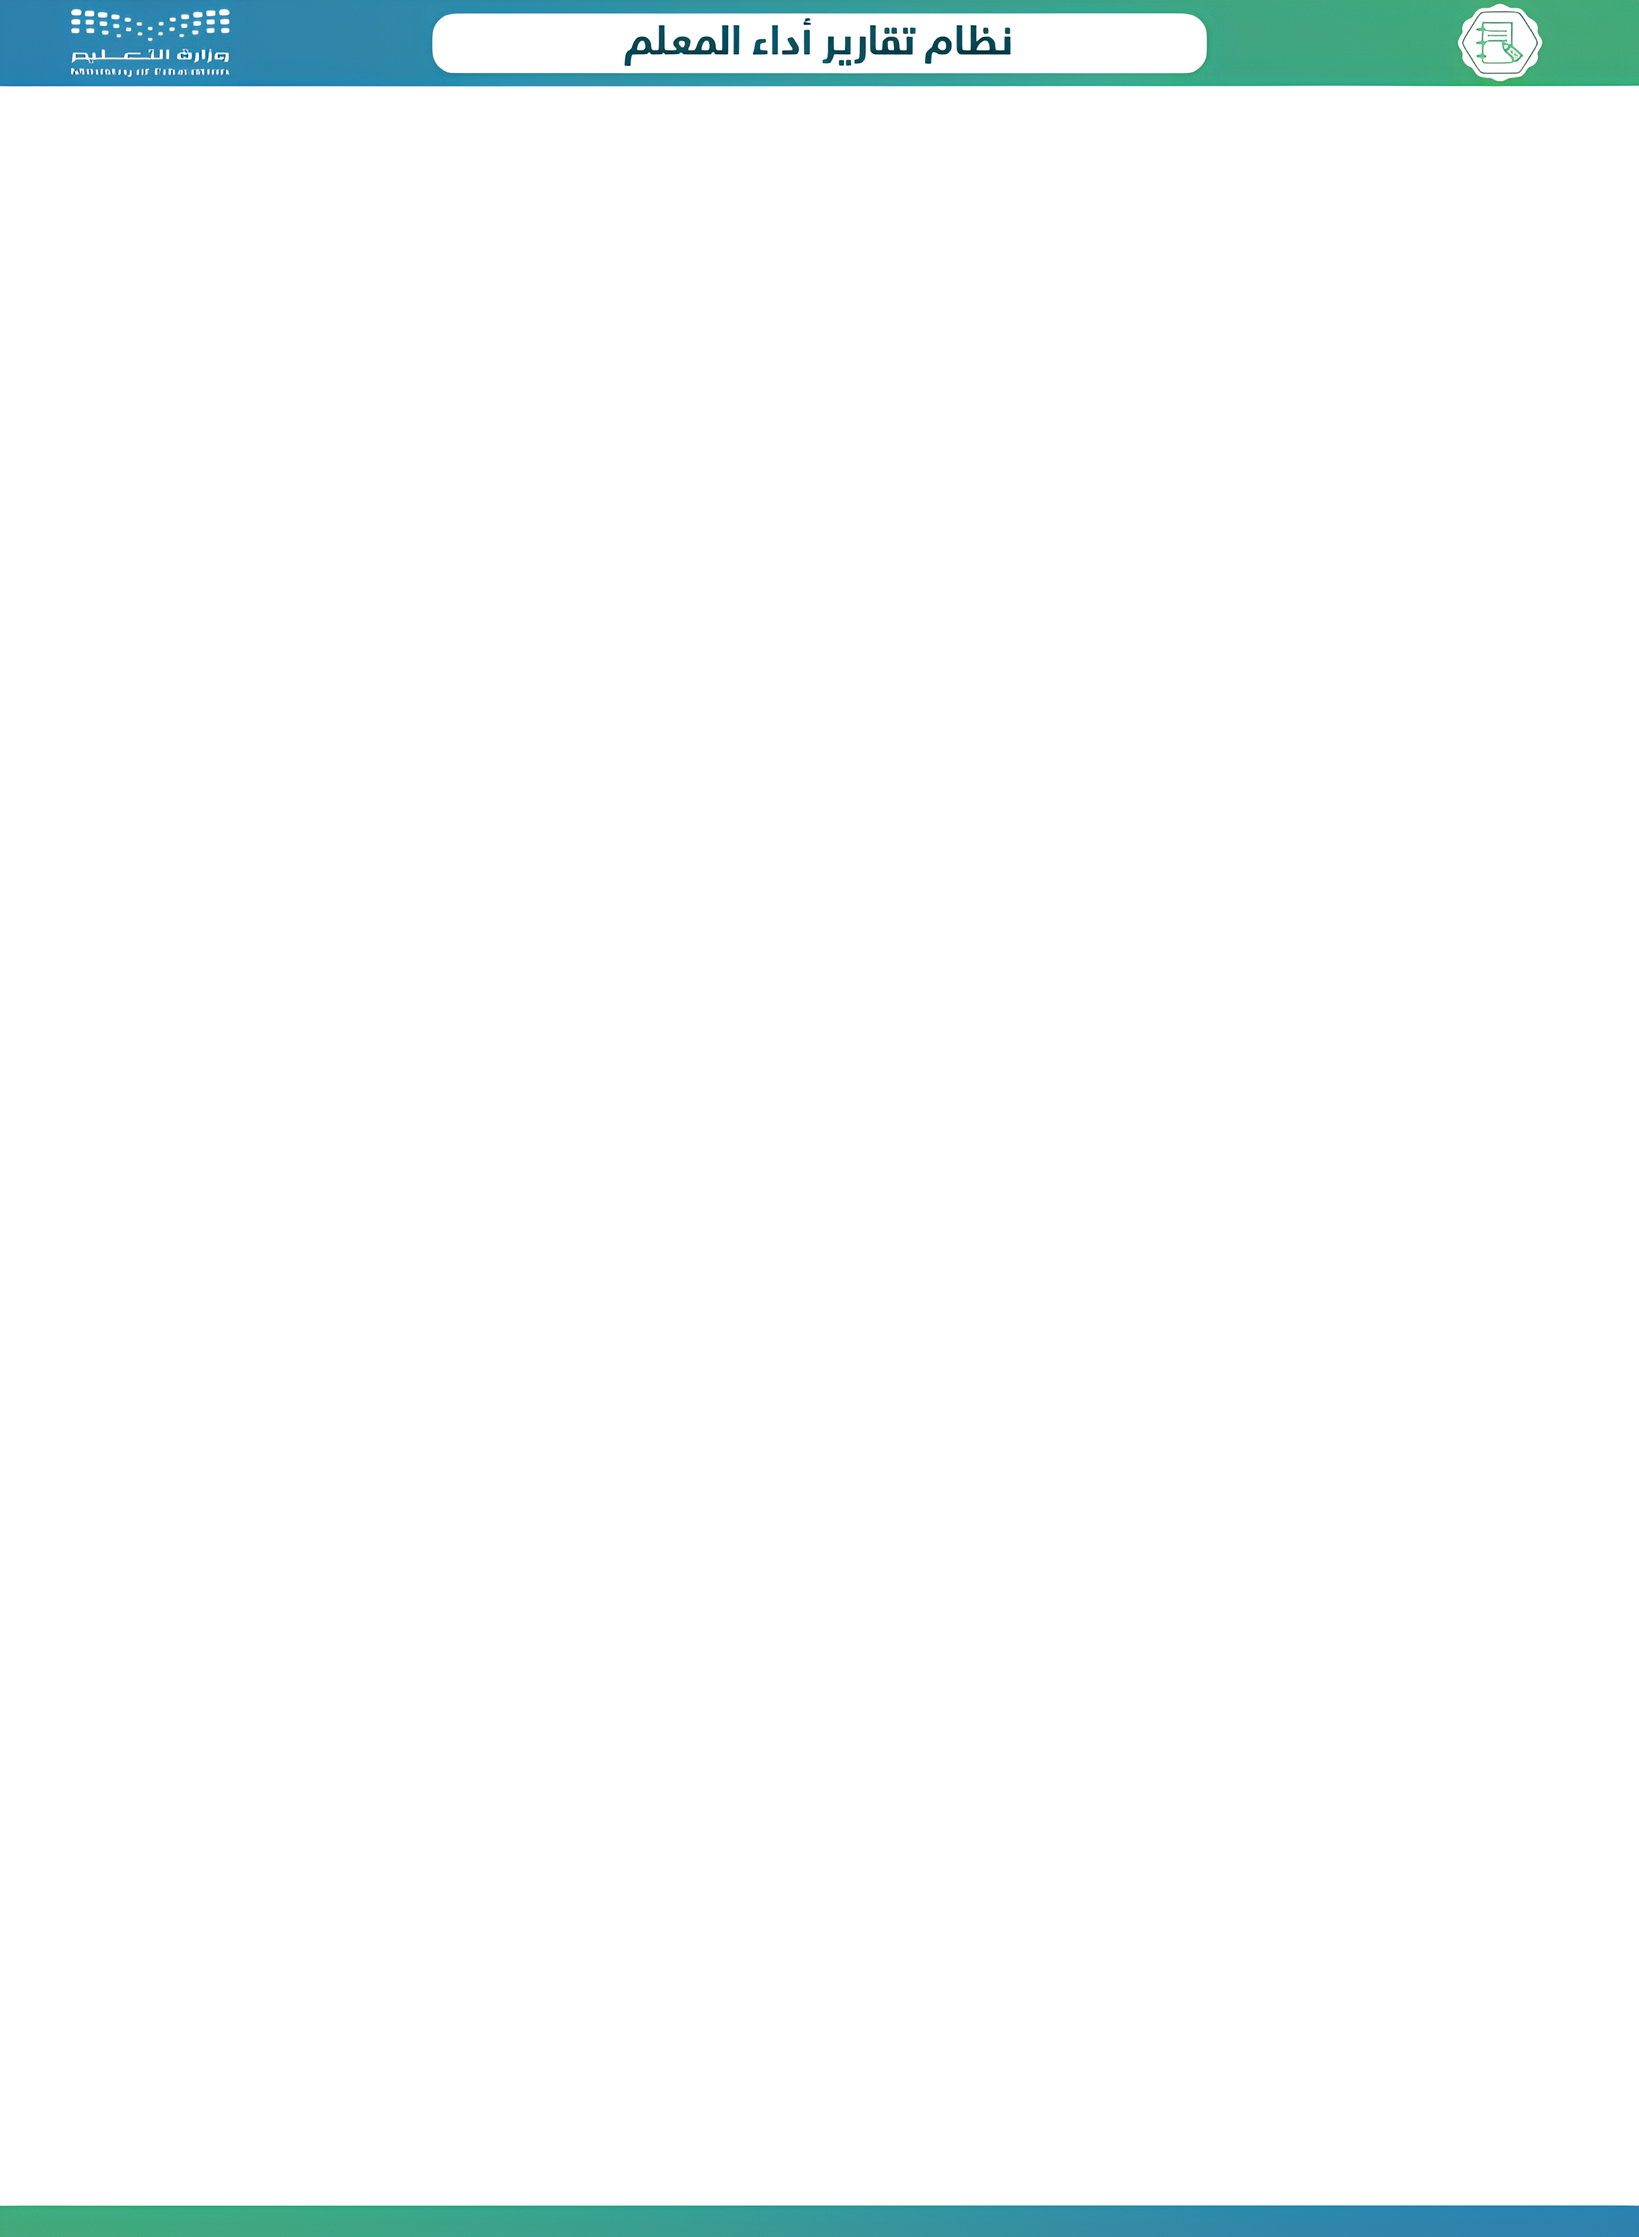
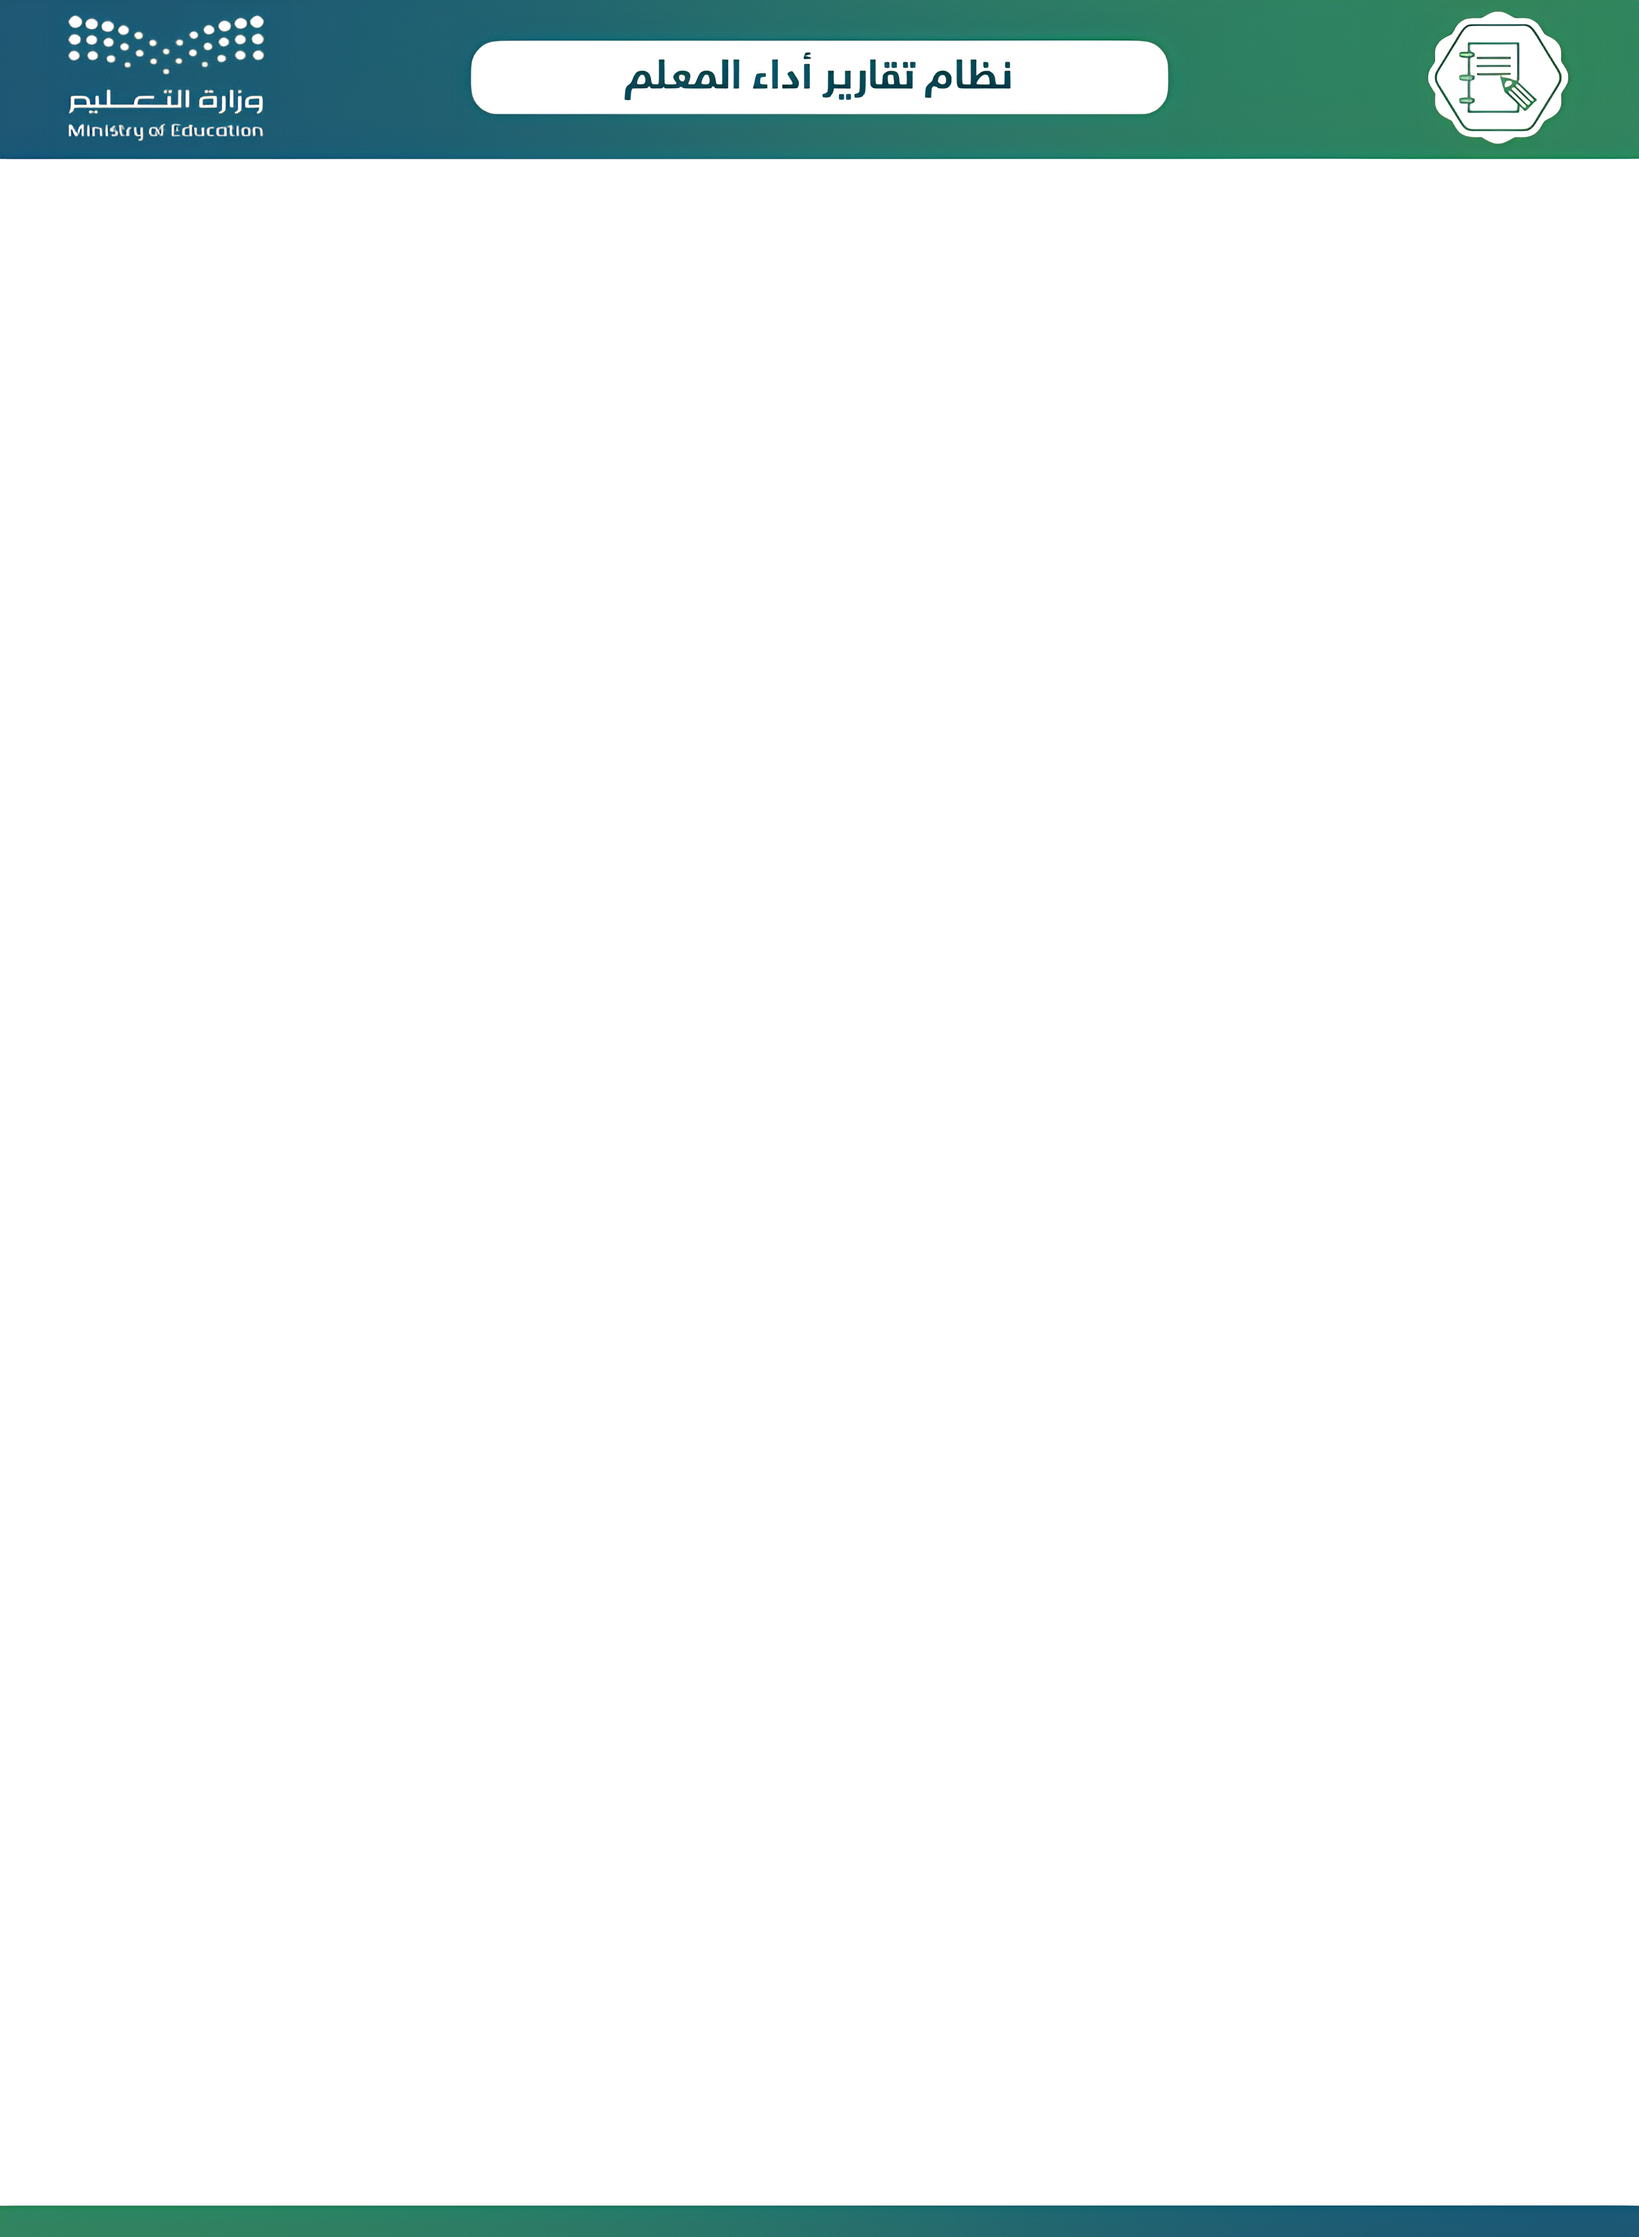
Add files via upload

Changed region(s): [[0.0, 0.0, 1.0, 0.0931], [0.0, 0.9619, 1.0, 1.0]]

diff --git a/index.html b/index.html
@@ -25,14 +25,14 @@ body, input, textarea, label, button, header, footer, .tab-content {
   background:#f5f5f5;
 }
 
-header { background:#15445a; color:white; text-align:center; padding:10px; }
+header { background:#0d302b; color:white; text-align:center; padding:10px; }
 header h1, header h2 { margin:3px 0; font-size:16px; }
 
-.tabs { display:flex; justify-content:center; background:#3d7eb9; flex-wrap:wrap; }
-.tab-button { flex:1; padding:10px; cursor:pointer; text-align:center; background:#3d7eb9; color:white; border:none; font-size:14px; font-weight:bold; }
-.tab-button.active { background:#0da9a6; }
+.tabs { display:flex; justify-content:center; background:#37648c; flex-wrap:wrap; }
+.tab-button { flex:1; padding:10px; cursor:pointer; text-align:center; background:#37648c; color:white; border:none; font-size:14px; font-weight:bold; }
+.tab-button.active { background:#0c8380; }
 
-.tab-content { display:none; padding:10px; background:white; border-radius:8px; margin:5px; }
+.tab-content { display:none; padding:10px; background:none; margin:5px; }
 .tab-content.active { display:block; }
 
 label {
@@ -104,7 +104,7 @@ footer {
 <div id="daily" class="tab-content active">
 <label><h2>التقرير اليومي</h2></label>
 
-<div style="display:flex; gap:10px; justify-content:center; margin-bottom:10px;">
+<div style="display:flex; gap:10px; justify-content:center; margin-bottom:30px;">
   <div style="display:flex; flex-direction:column; align-items:center; width:200px;">
     <label>إدارة تعليم منطقة</label>
     <input type="text">
@@ -241,7 +241,7 @@ footer {
 <div id="monthly" class="tab-content">
 <label><h2>التقرير الشهري</h2></label>
 
-<div style="display:flex; gap:10px; justify-content:center; margin-bottom:10px;">
+<div style="display:flex; gap:10px; justify-content:center; margin-bottom:1px;">
   <div style="display:flex; flex-direction:column; align-items:center; width:200px;">
     <label>إدارة تعليم منطقة</label>
     <input type="text">
